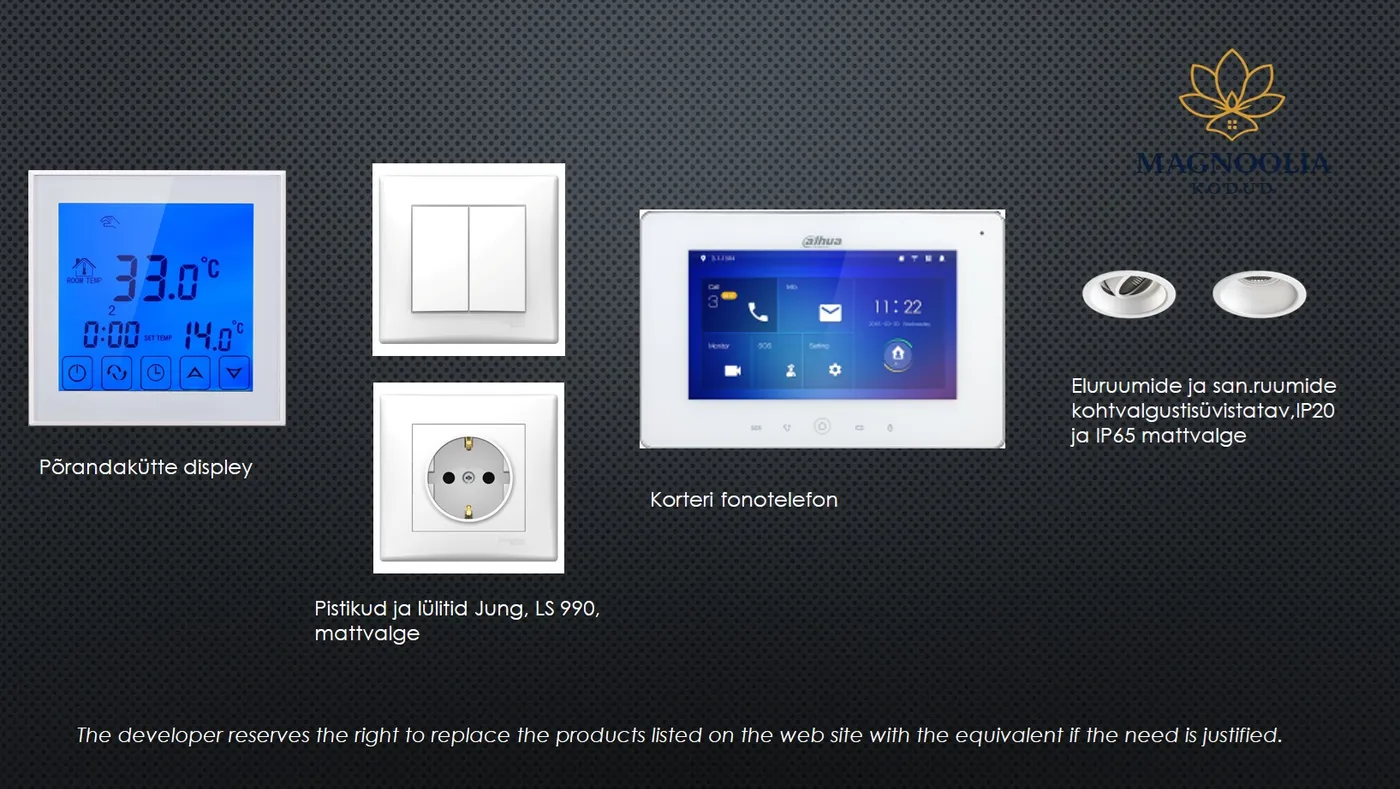
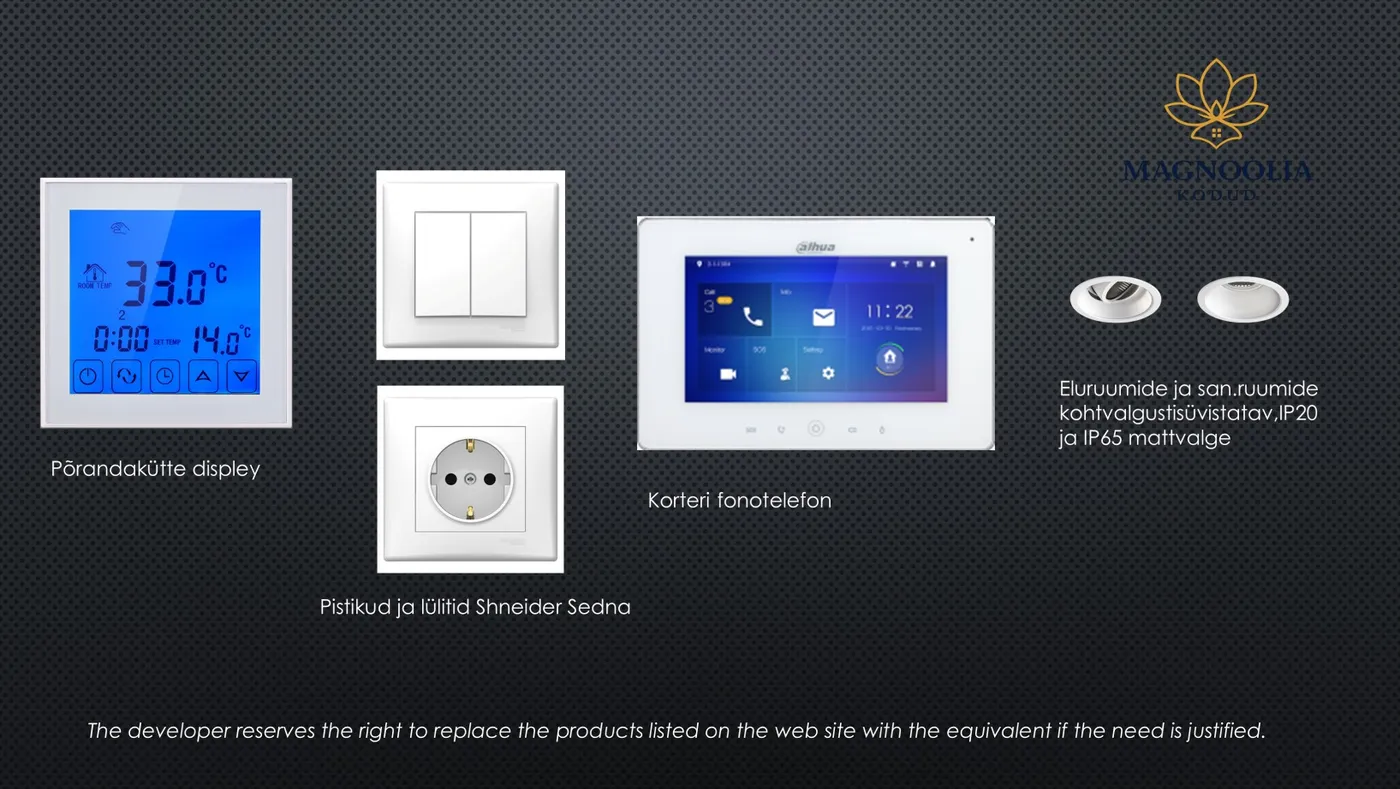
fixes

diff --git a/tests/Feature/MagnooliaPhase31InteriorFinishTest.php b/tests/Feature/MagnooliaPhase31InteriorFinishTest.php
@@ -5,11 +5,12 @@ namespace Tests\Feature;
 use Tests\TestCase;
 
 /**
- * Phase 31 — /ehitusinfo interior finish & equipment standard section.
+ * Phase 31 — interior finish & equipment standard section.
+ * The block was later moved from /ehitusinfo to /sisedisain (client request).
  */
 class MagnooliaPhase31InteriorFinishTest extends TestCase
 {
-    private function html(string $url = '/ehitusinfo'): string
+    private function html(string $url = '/sisedisain'): string
     {
         return $this->get($url)->assertStatus(200)->getContent();
     }
@@ -28,7 +29,7 @@ class MagnooliaPhase31InteriorFinishTest extends TestCase
     {
         $html = $this->html();
         foreach ([
-            'Jung LS 990', 'Damixa Core', 'Balteco Onyx 40', 'RAK Resort', 'ACO plaaditud',
+            'Schneider Sedna', 'Damixa Core', 'Balteco Onyx 40', 'RAK Resort', 'ACO plaaditud',
             'Tikkurila Symphony Opus II', 'Swedoor', 'Pure Alt Bazalt', 'Freedust Grey',
             'BETA SLIM', 'Samsung', 'kalasabaparkett',
         ] as $name) {
@@ -67,8 +68,8 @@ class MagnooliaPhase31InteriorFinishTest extends TestCase
 
     public function test_ru_and_en_render(): void
     {
-        $this->assertStringContainsString('Внутренняя отделка и стандарт оснащения', $this->html('/ru/ehitusinfo'));
-        $this->assertStringContainsString('Interior finish and equipment standard', $this->html('/en/ehitusinfo'));
+        $this->assertStringContainsString('Внутренняя отделка и стандарт оснащения', $this->html('/ru/sisedisain'));
+        $this->assertStringContainsString('Interior finish and equipment standard', $this->html('/en/sisedisain'));
         // no unresolved keys
         $this->assertStringNotContainsString('magnoolia.interior.', $this->html());
     }

diff --git a/config/magnoolia_interiors.php b/config/magnoolia_interiors.php
@@ -31,7 +31,7 @@ return [
             'overview' => $base . 'electrical-overview.webp',
             'items'    => [
                 ['name' => 'Põrandakütte displei', 'type' => 'standard'],
-                ['name' => 'Pistikud ja lülitid Jung LS 990, mattvalge', 'type' => 'standard'],
+                ['name' => 'Pistikud ja lülitid Schneider Sedna, mattvalge', 'type' => 'standard'],
                 ['name' => 'Korteri fonotelefon', 'type' => 'standard'],
                 ['name' => 'Süvistatavad kohtvalgustid (IP20 / IP65), mattvalge', 'type' => 'standard'],
             ],
@@ -85,6 +85,7 @@ return [
                 ['name' => 'Prantsuse kalasabaparkett Selekt (naturaalne või tumedam antiik)', 'type' => 'paid'],
                 ['name' => 'Jahutusseadmed Samsung (sise- ja välisosad)', 'type' => 'paid'],
                 ['name' => 'Valamukapp Nu40 valamule', 'type' => 'paid'],
+                ['name' => 'Pistikud ja lülitid Schneider Sedna, antratsiithall', 'type' => 'paid'],
             ],
         ],
 
